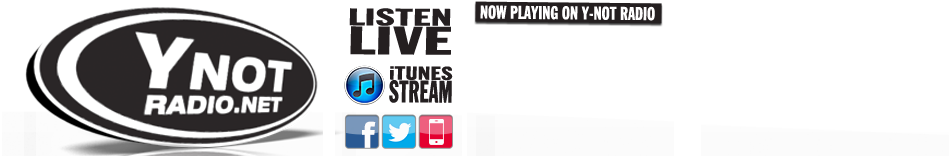
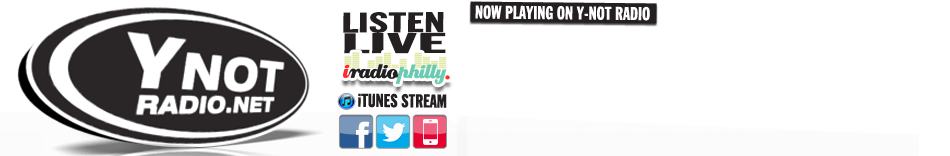
new iRadioPhilly header

Changed region(s): [[0.0, 0.0, 0.7021, 1.0], [0.0611, 0.9231, 0.1221, 1.0], [0.1526, 0.0256, 0.1832, 0.0513]]

diff --git a/style/typography.css b/style/typography.css
@@ -90,7 +90,7 @@ header iframe {
   border: 1px solid black;
   position: relative;
   top: -130px;
-  left: 475px;
+  left: 470px;
 }
 
 header .columns {
@@ -106,8 +106,8 @@ header img {
   color: black;
   font-size: 14px;
   font-weight: bold;
-  left: 665px;
-  max-width: 260px;
+  left: 660px;
+  max-width: 265px;
   position: relative;
   text-shadow: 0.1em 0.1em white;
   top: -277px;

diff --git a/partials/_header.php b/partials/_header.php
@@ -38,15 +38,15 @@ if ($page_file != "logout.php"){
       <div id="container">
       <header>
         <img src="imgs/header_front.png" alt="logo" usemap="#Map"/>
-        <iframe src="http://www.live365.com/mini/playlist.html?ads=0&cb=0&site=pro&irows=0&hide=TBW&rows=6&station=ynotradio&css=/scp/css/playlist.css" name="Live365Playlist" scrolling="AUTO" noresize frameborder="No" marginwidth="0" marginheight="0" width=440 height=125></iframe>
+        <iframe src="http://www.live365.com/mini/playlist.html?ads=0&cb=0&site=pro&irows=0&hide=TBW&rows=6&station=ynotradio&css=/scp/css/playlist.css" name="Live365Playlist" scrolling="AUTO" noresize frameborder="No" marginwidth="0" marginheight="0" width=445 height=125></iframe>
         <map name="Map">
-        <area shape="rect" coords="30,5,320,150" href="http://www.ynotradio.net" alt="Y-Not Radio"/>
-        <area shape="rect" coords="345,5,450,55" href="http://www.iradiophilly.com/index.php?idStation=42" alt="Listen Live" target="_new"/>
-        <area shape="rect" coords="345,65,450,102" href="http://peace.str3am.com:6320/ynot.m3u" target="_new" alt="iTunes">
-        <area shape="rect" coords="345,110,378,145" href="https://www.facebook.com/ynotradio" alt="facebook" target="_new"/>
-        <area shape="rect" coords="382,110,414,145" href="http://twitter.com/ynotradio" alt="twitter" target="_new"/>
-        <area shape="rect" coords="418,110,452,145" href="mobile.php" alt="mobile"/>
-      </map>
+          <area shape="rect" coords="20,5,310,150" href="http://www.ynotradio.net" alt="Y-Not Radio"/>
+          <area shape="rect" coords="340,10,452,85" href="http://www.iradiophilly.com/index.php?idStation=42" alt="Listen Live" target="_new"/>
+          <area shape="rect" coords="337,93,447,102" href=" http://www.iradiophilly.com/pls/ynot.pls" target="_new" alt="iTunes">
+          <area shape="rect" coords="328,115,372,149" href="https://www.facebook.com/ynotradio" alt="facebook" target="_new"/>
+          <area shape="rect" coords="382,115,410,149" href="http://twitter.com/ynotradio" alt="twitter" target="_new"/>
+          <area shape="rect" coords="414,115,447,149" href="mobile.php" alt="mobile"/>
+        </map>
       <?php
         $on_air = on_air();
         if ($on_air != '')
